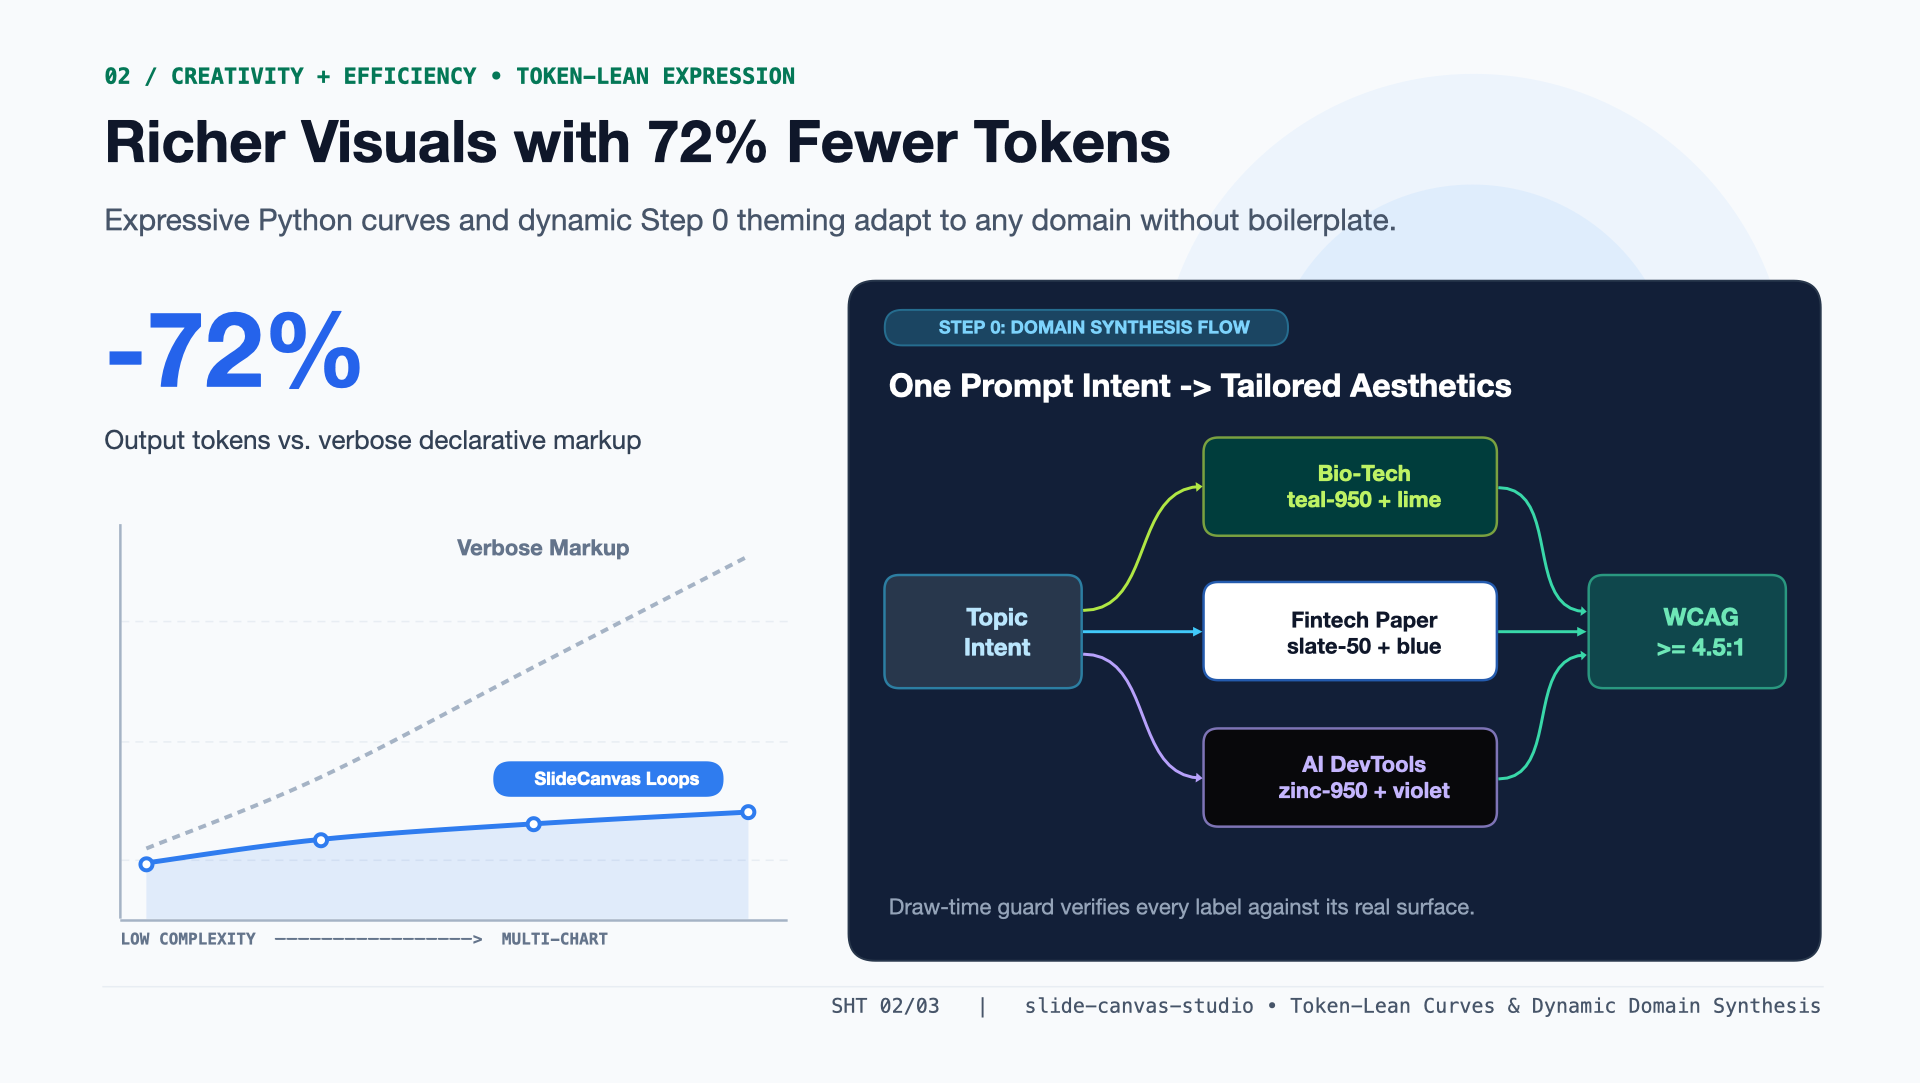
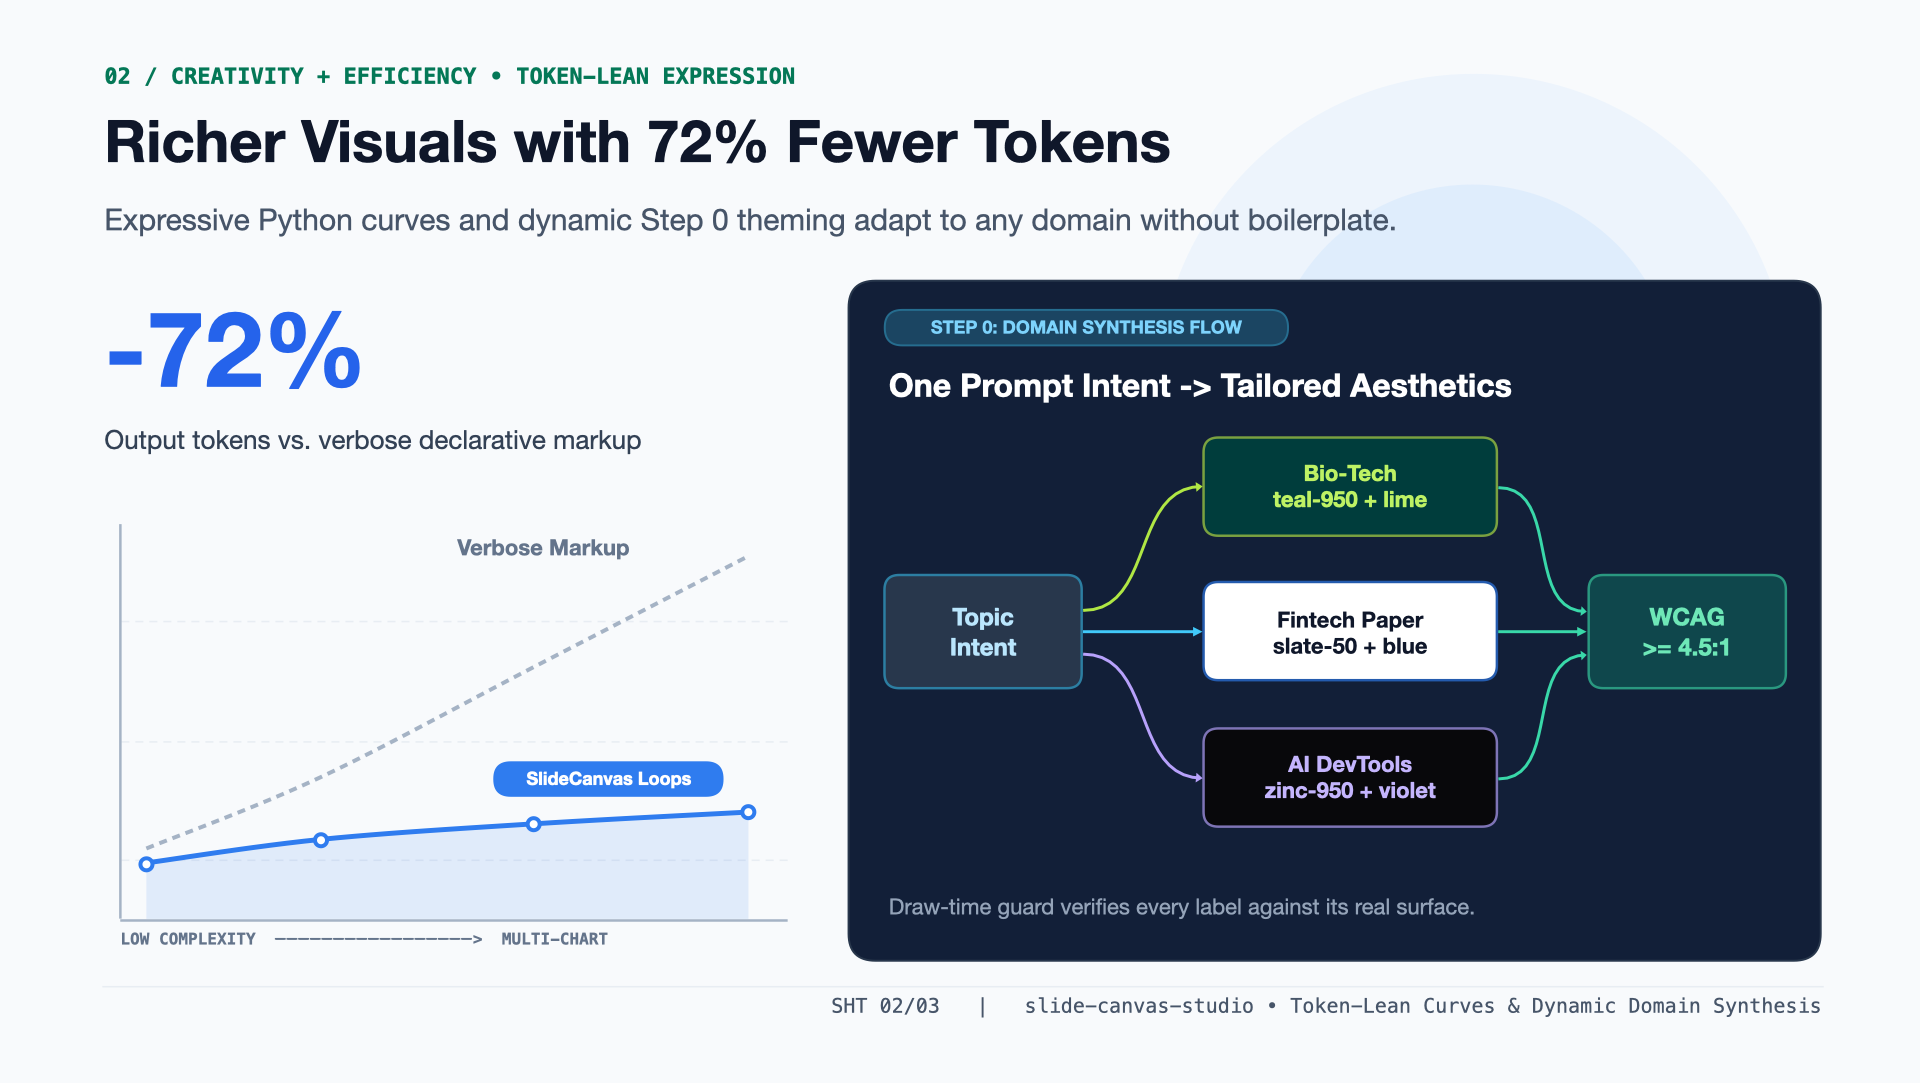
fix(canvas): zero centered text frame insets in _set_text() to fix QuickLook center shift

diff --git a/scripts/slide_canvas.py b/scripts/slide_canvas.py
@@ -459,10 +459,12 @@ class SlideCanvas(VectorPrimitivesMixin):
         pt_size, _ = TokenResolver.resolve_typography(size)
         tf = shp.text_frame
         tf.word_wrap = True
-        tf.margin_left = px(pad_x_px)
-        tf.margin_right = px(pad_x_px)
-        tf.margin_top = px(pad_v_px)
-        tf.margin_bottom = px(pad_v_px)
+        eff_pad_x = 0.0 if align.lower() == "center" else pad_x_px
+        eff_pad_v = 0.0 if valign.lower() in ("middle", "center") else pad_v_px
+        tf.margin_left = px(eff_pad_x)
+        tf.margin_right = px(eff_pad_x)
+        tf.margin_top = px(eff_pad_v)
+        tf.margin_bottom = px(eff_pad_v)
         valign_map = {"top": MSO_ANCHOR.TOP, "middle": MSO_ANCHOR.MIDDLE, "center": MSO_ANCHOR.MIDDLE, "bottom": MSO_ANCHOR.BOTTOM}
         tf.vertical_anchor = valign_map.get(valign.lower(), MSO_ANCHOR.TOP)
 
